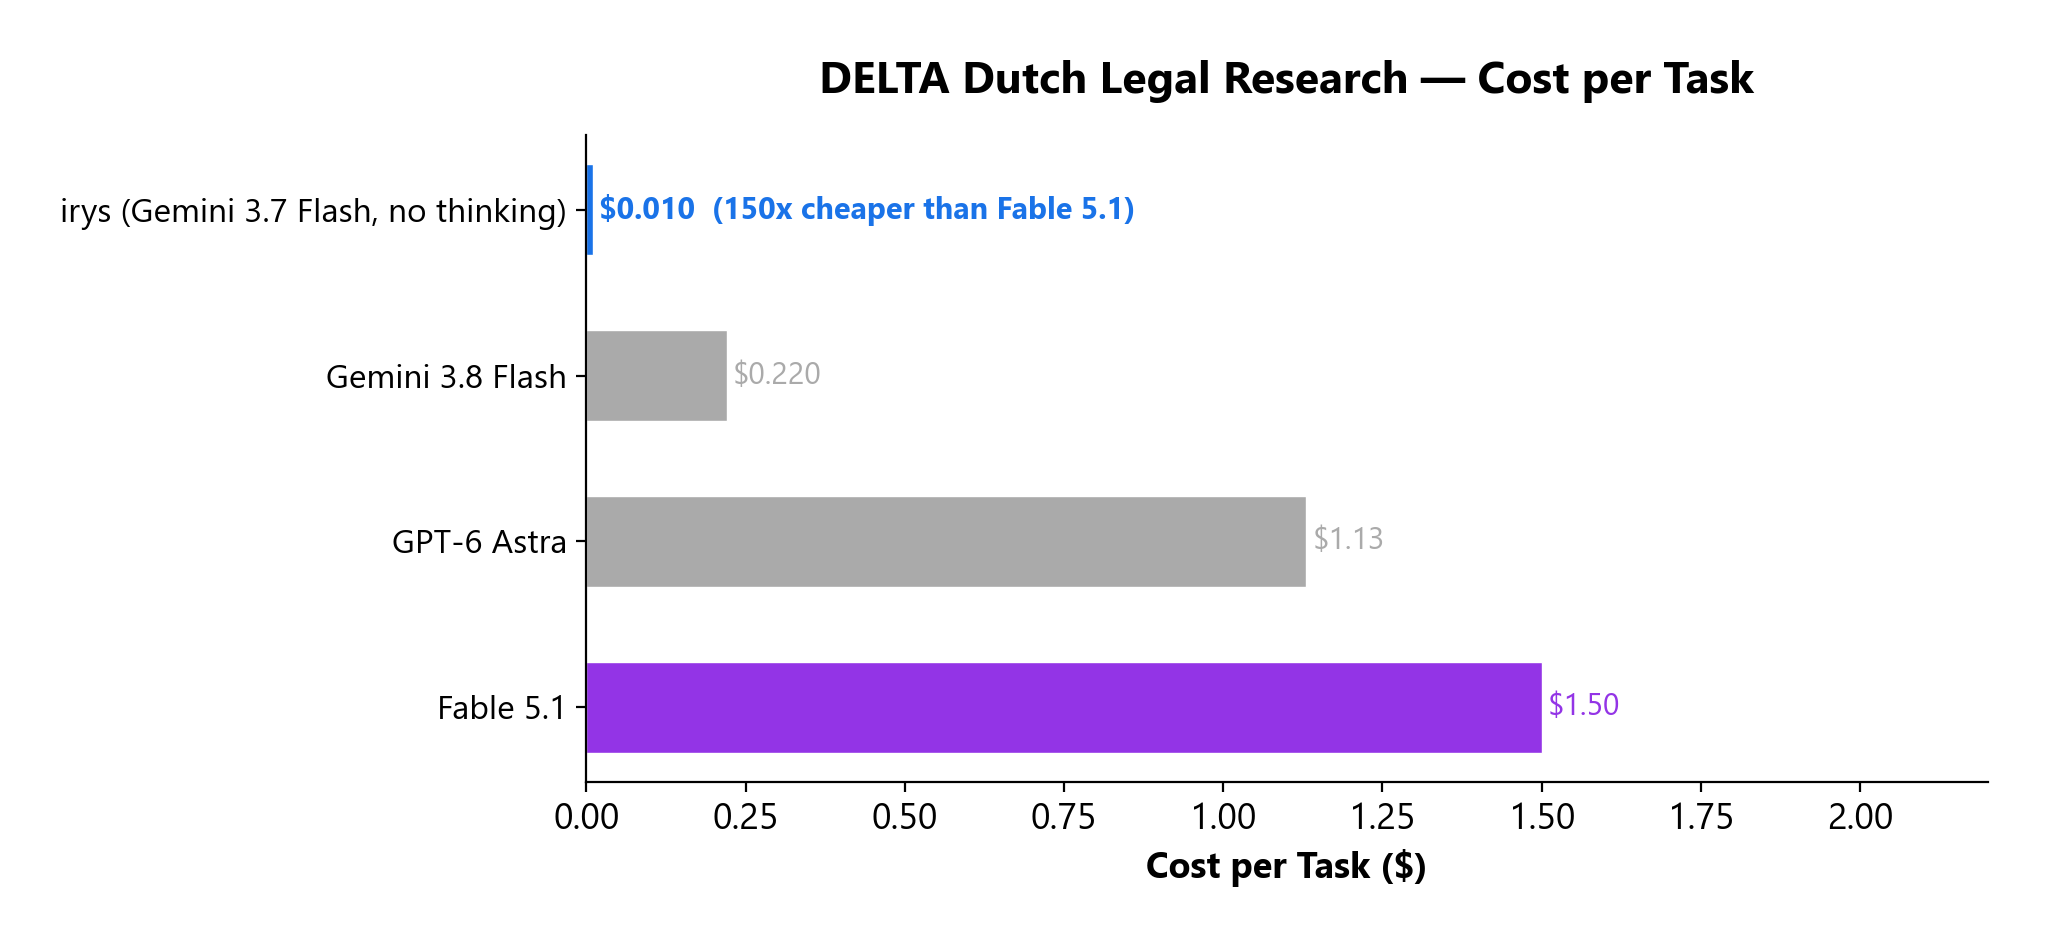
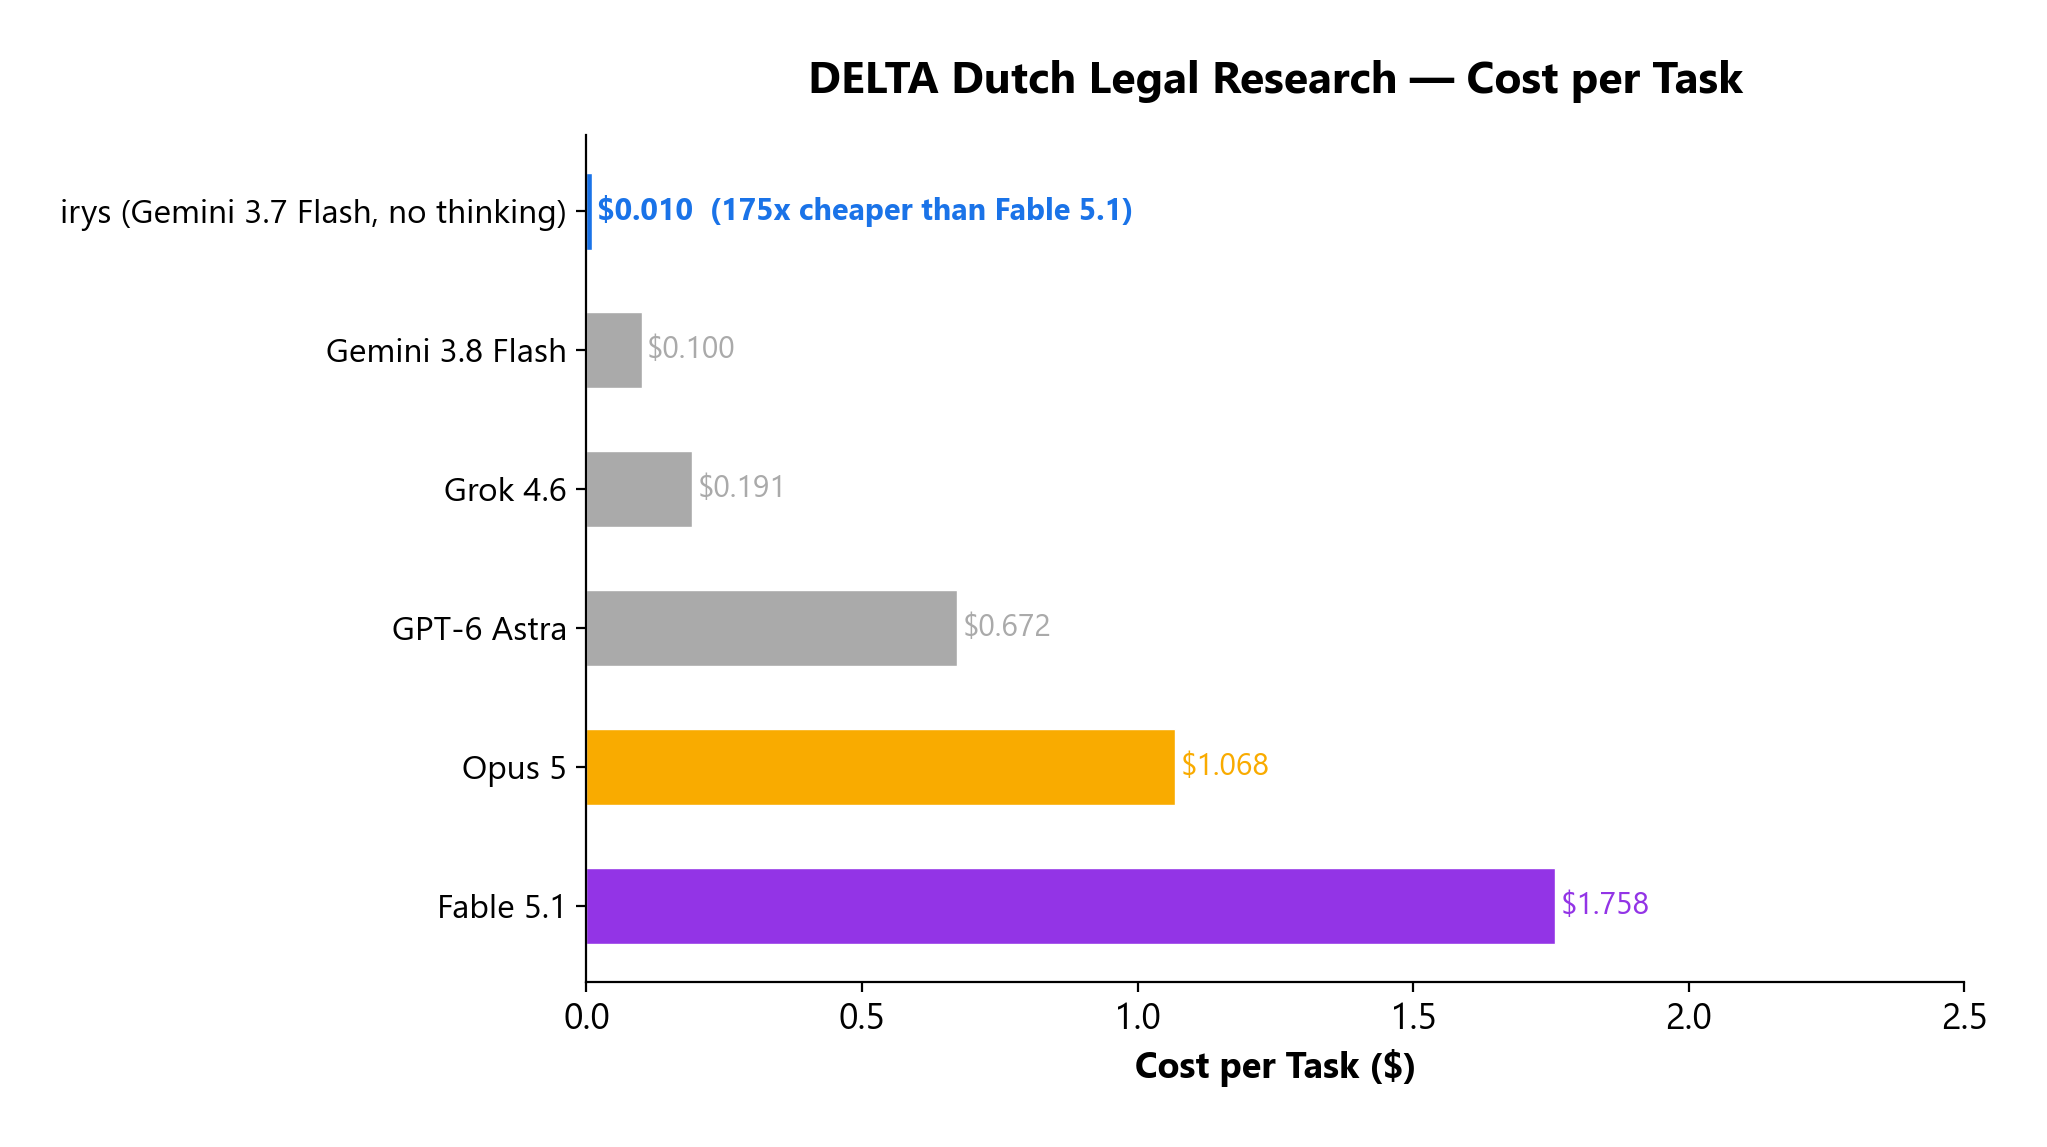
Correct benchmark data with validated evaluation methodology
Update comparison table and charts with verified leaderboard data and
re-scored results using the official evaluation judge. Add multi-provider
judge support to benchmark harness.

Committed by Devansh

diff --git a/assets/generate_charts.py b/assets/generate_charts.py
@@ -165,10 +165,10 @@ plt.savefig('assets/lab_training_vs_performance.png')
 plt.close()
 
 # ── Chart 6: DELTA Criteria Rate vs Leaderboard ──
-fig, ax = plt.subplots(figsize=(10, 4.5))
-delta_systems = ['GPT-6 Astra', IRYS_LABEL, 'Fable 5.1', 'Gemini 3.8 Flash']
-delta_criteria = [87.1, 81.5, 75.7, 65.9]
-delta_colors = [OTHER, IRYS, FABLE, OTHER]
+fig, ax = plt.subplots(figsize=(10, 5.5))
+delta_systems = ['Opus 5', 'Fable 5.1', IRYS_LABEL, 'Grok 4.6', 'GPT-6 Astra', 'Gemini 3.8 Flash']
+delta_criteria = [77.6, 75.7, 75.6, 68.8, 67.7, 61.4]
+delta_colors = [OPUS, FABLE, IRYS, OTHER, OTHER, OTHER]
 
 bars = ax.barh(range(len(delta_systems)), delta_criteria, color=delta_colors, height=0.55, edgecolor='white', linewidth=0.5)
 ax.set_yticks(range(len(delta_systems)))
@@ -178,15 +178,15 @@ ax.set_xlabel('Criteria Met (%)', fontsize=13, fontweight='bold')
 ax.set_title('DELTA Dutch Legal Research — Criteria Rate', fontsize=16, fontweight='bold', pad=15)
 
 for i, (bar, val) in enumerate(zip(bars, delta_criteria)):
-    weight = 'bold' if i == 1 else 'normal'
+    weight = 'bold' if i == 2 else 'normal'
     ax.text(bar.get_width() + 0.3, bar.get_y() + bar.get_height()/2,
             f'{val}%', va='center', fontsize=11, fontweight=weight,
             color=delta_colors[i])
 
-ax.set_xlim(0, 100)
+ax.set_xlim(0, 92)
 ax.xaxis.set_major_formatter(mticker.FormatStrFormatter('%g%%'))
 
-ax.text(50, 3.7, 'Leaderboard scores may use different judges — see caveats',
+ax.text(46, 5.7, 'All scored by GPT-5.6 Sol (official DELTA judge)',
         fontsize=9, color='#888888', style='italic', ha='center')
 
 plt.tight_layout()
@@ -194,10 +194,10 @@ plt.savefig('assets/delta_criteria_rate.png')
 plt.close()
 
 # ── Chart 7: DELTA Cost per Task vs Leaderboard ──
-fig, ax = plt.subplots(figsize=(10, 4.5))
-delta_cost_systems = [IRYS_LABEL, 'Gemini 3.8 Flash', 'GPT-6 Astra', 'Fable 5.1']
-delta_costs = [0.010, 0.22, 1.13, 1.50]
-delta_cost_colors = [IRYS, OTHER, OTHER, FABLE]
+fig, ax = plt.subplots(figsize=(10, 5.5))
+delta_cost_systems = [IRYS_LABEL, 'Gemini 3.8 Flash', 'Grok 4.6', 'GPT-6 Astra', 'Opus 5', 'Fable 5.1']
+delta_costs = [0.010, 0.100, 0.191, 0.672, 1.068, 1.758]
+delta_cost_colors = [IRYS, OTHER, OTHER, OTHER, OPUS, FABLE]
 
 bars = ax.barh(range(len(delta_cost_systems)), delta_costs, color=delta_cost_colors, height=0.55, edgecolor='white', linewidth=0.5)
 ax.set_yticks(range(len(delta_cost_systems)))
@@ -208,13 +208,13 @@ ax.set_title('DELTA Dutch Legal Research — Cost per Task', fontsize=16, fontwe
 
 for i, (bar, val) in enumerate(zip(bars, delta_costs)):
     weight = 'bold' if i == 0 else 'normal'
-    suffix = '  (150x cheaper than Fable 5.1)' if i == 0 else ''
+    suffix = '  (175x cheaper than Fable 5.1)' if i == 0 else ''
     ax.text(bar.get_width() + 0.01, bar.get_y() + bar.get_height()/2,
-            f'${val:.3f}{suffix}' if val < 1 else f'${val:.2f}{suffix}',
+            f'${val:.3f}{suffix}' if val < 0.1 else f'${val:.3f}',
             va='center', fontsize=11, fontweight=weight,
             color=delta_cost_colors[i])
 
-ax.set_xlim(0, 2.2)
+ax.set_xlim(0, 2.5)
 plt.tight_layout()
 plt.savefig('assets/delta_cost_per_task.png')
 plt.close()
@@ -223,10 +223,12 @@ plt.close()
 fig, ax = plt.subplots(figsize=(10, 6))
 
 delta_scatter = [
-    ('irys', 0.010, 81.5, IRYS),
-    ('GPT-6 Astra', 1.13, 87.1, OTHER),
-    ('Fable 5.1', 1.50, 75.7, FABLE),
-    ('Gemini 3.8 Flash', 0.22, 65.9, OTHER),
+    ('irys', 0.010, 75.6, IRYS),
+    ('Opus 5', 1.068, 77.6, OPUS),
+    ('Fable 5.1', 1.758, 75.7, FABLE),
+    ('Grok 4.6', 0.191, 68.8, OTHER),
+    ('GPT-6 Astra', 0.672, 67.7, OTHER),
+    ('Gemini 3.8 Flash', 0.100, 61.4, OTHER),
 ]
 
 for name, cost, criteria, color in delta_scatter:
@@ -238,7 +240,8 @@ for name, cost, criteria, color in delta_scatter:
     if name == 'irys':
         offset_x = 8
         offset_y = -1
-    ipp = criteria / cost if cost > 0 else float('inf')
+    if name == 'Grok 4.6':
+        offset_y = 3
     label_text = f'{name}\n{criteria}% @ ${cost}'
     ax.annotate(label_text,
                 (cost, criteria), textcoords='offset points',
@@ -248,16 +251,16 @@ for name, cost, criteria, color in delta_scatter:
 ax.set_xlabel('Cost per Task ($)', fontsize=13, fontweight='bold')
 ax.set_ylabel('Criteria Met (%)', fontsize=13, fontweight='bold')
 ax.set_title('Performance vs Cost — DELTA Benchmark', fontsize=16, fontweight='bold', pad=15)
-ax.set_xlim(-0.1, 2.0)
-ax.set_ylim(55, 95)
+ax.set_xlim(-0.1, 2.2)
+ax.set_ylim(55, 85)
 ax.yaxis.set_major_formatter(mticker.FormatStrFormatter('%g%%'))
 
-ax.annotate('', xy=(0.010, 81.5), xytext=(1.50, 75.7),
+ax.annotate('', xy=(0.010, 75.6), xytext=(1.758, 75.7),
             arrowprops=dict(arrowstyle='->', color='#666666', lw=1.5, linestyle='--'))
-ax.text(0.8, 82, '150x cheaper,\nhigher quality', fontsize=10, color='#666666',
+ax.text(0.9, 78, '175x cheaper,\nsame quality', fontsize=10, color='#666666',
         ha='center', style='italic')
 
-ax.text(1.0, 57, 'Leaderboard scores may use different judges — see caveats',
+ax.text(1.1, 57, 'All scored by GPT-5.6 Sol (official DELTA judge)',
         fontsize=9, color='#888888', style='italic', ha='center')
 
 plt.tight_layout()
@@ -265,81 +268,77 @@ plt.savefig('assets/delta_performance_vs_cost.png')
 plt.close()
 
 # ── Chart 9: DELTA Consolidated Dashboard (2x2) ──
-fig, axes = plt.subplots(2, 2, figsize=(12, 10))
+fig, axes = plt.subplots(2, 2, figsize=(14, 10))
 
-systems = ['GPT-6\nAstra', 'irys', 'Fable\n5.1', 'Gemini\n3.8 Flash']
-colors = [OTHER, IRYS, FABLE, OTHER]
-criteria = [87.1, 81.5, 75.7, 65.9]
-task_pass = [None, 13.3, None, None]
-costs = [1.13, 0.010, 1.50, 0.22]
+systems = ['Opus\n5', 'Fable\n5.1', 'irys', 'Grok\n4.6', 'GPT-6\nAstra', 'Gemini\n3.8 Flash']
+colors = [OPUS, FABLE, IRYS, OTHER, OTHER, OTHER]
+criteria = [77.6, 75.7, 75.6, 68.8, 67.7, 61.4]
+task_pass = [13.3, 15.0, 10.0, 10.0, 6.7, 5.0]
+costs = [1.068, 1.758, 0.010, 0.191, 0.672, 0.100]
 cpd = [c / cost for c, cost in zip(criteria, costs)]
+n = len(systems)
 
 # Panel 1 (top-left): Criteria Rate
 ax = axes[0, 0]
-bars = ax.bar(range(4), criteria, color=colors, width=0.55, edgecolor='white', linewidth=0.5)
+bars = ax.bar(range(n), criteria, color=colors, width=0.55, edgecolor='white', linewidth=0.5)
 for i, (bar, val) in enumerate(zip(bars, criteria)):
-    weight = 'bold' if i == 1 else 'normal'
+    weight = 'bold' if i == 2 else 'normal'
     ax.text(bar.get_x() + bar.get_width()/2, bar.get_height() + 0.8,
-            f'{val}%', ha='center', va='bottom', fontsize=12, fontweight=weight, color=colors[i])
-ax.set_xticks(range(4))
-ax.set_xticklabels(systems, fontsize=11)
-ax.set_ylim(0, 100)
+            f'{val}%', ha='center', va='bottom', fontsize=11, fontweight=weight, color=colors[i])
+ax.set_xticks(range(n))
+ax.set_xticklabels(systems, fontsize=10)
+ax.set_ylim(0, 92)
 ax.set_ylabel('%', fontsize=12)
 ax.set_title('Criteria Met', fontsize=15, fontweight='bold', pad=12)
 ax.yaxis.set_major_formatter(mticker.FormatStrFormatter('%g%%'))
 
 # Panel 2 (top-right): Task Pass Rate
 ax = axes[0, 1]
-task_pass_vals = [0 if v is None else v for v in task_pass]
-task_pass_colors = ['#e0e0e0' if v is None else c for v, c in zip(task_pass, colors)]
-bars = ax.bar(range(4), task_pass_vals, color=task_pass_colors, width=0.55, edgecolor='white', linewidth=0.5)
+bars = ax.bar(range(n), task_pass, color=colors, width=0.55, edgecolor='white', linewidth=0.5)
 for i, (bar, val) in enumerate(zip(bars, task_pass)):
-    if val is not None:
-        ax.text(bar.get_x() + bar.get_width()/2, bar.get_height() + 0.5,
-                f'{val}%', ha='center', va='bottom', fontsize=12, fontweight='bold', color=colors[i])
-    else:
-        ax.text(bar.get_x() + bar.get_width()/2, 1.5,
-                'N/A', ha='center', va='bottom', fontsize=11, color='#999999', style='italic')
-ax.set_xticks(range(4))
-ax.set_xticklabels(systems, fontsize=11)
-ax.set_ylim(0, 25)
+    weight = 'bold' if i == 2 else 'normal'
+    ax.text(bar.get_x() + bar.get_width()/2, bar.get_height() + 0.3,
+            f'{val}%', ha='center', va='bottom', fontsize=11, fontweight=weight, color=colors[i])
+ax.set_xticks(range(n))
+ax.set_xticklabels(systems, fontsize=10)
+ax.set_ylim(0, 22)
 ax.set_ylabel('%', fontsize=12)
 ax.set_title('Task Pass (all criteria)', fontsize=15, fontweight='bold', pad=12)
 ax.yaxis.set_major_formatter(mticker.FormatStrFormatter('%g%%'))
 
 # Panel 3 (bottom-left): Cost per Task
 ax = axes[1, 0]
-bars = ax.bar(range(4), costs, color=colors, width=0.55, edgecolor='white', linewidth=0.5)
+bars = ax.bar(range(n), costs, color=colors, width=0.55, edgecolor='white', linewidth=0.5)
 for i, (bar, val) in enumerate(zip(bars, costs)):
-    weight = 'bold' if i == 1 else 'normal'
-    label = f'${val:.3f}' if val < 0.1 else f'${val:.2f}'
+    weight = 'bold' if i == 2 else 'normal'
+    label = f'${val:.3f}' if val < 0.1 else f'${val:.3f}'
     y_pos = bar.get_height() + 0.02
     ax.text(bar.get_x() + bar.get_width()/2, y_pos,
-            label, ha='center', va='bottom', fontsize=12, fontweight=weight, color=colors[i])
-ax.set_xticks(range(4))
-ax.set_xticklabels(systems, fontsize=11)
-ax.set_ylim(0, 2.0)
+            label, ha='center', va='bottom', fontsize=11, fontweight=weight, color=colors[i])
+ax.set_xticks(range(n))
+ax.set_xticklabels(systems, fontsize=10)
+ax.set_ylim(0, 2.3)
 ax.set_ylabel('$', fontsize=12)
 ax.set_title('Cost per Task', fontsize=15, fontweight='bold', pad=12)
 
 # Panel 4 (bottom-right): Intelligence per Dollar
 ax = axes[1, 1]
-bars = ax.bar(range(4), cpd, color=colors, width=0.55, edgecolor='white', linewidth=0.5)
+bars = ax.bar(range(n), cpd, color=colors, width=0.55, edgecolor='white', linewidth=0.5)
 for i, (bar, val) in enumerate(zip(bars, cpd)):
-    weight = 'bold' if i == 1 else 'normal'
+    weight = 'bold' if i == 2 else 'normal'
     if val > 1000:
         label = f'{val:,.0f}'
     else:
         label = f'{val:.1f}'
     ax.text(bar.get_x() + bar.get_width()/2, bar.get_height() + 80,
-            label, ha='center', va='bottom', fontsize=12, fontweight=weight, color=colors[i])
-ax.set_xticks(range(4))
-ax.set_xticklabels(systems, fontsize=11)
+            label, ha='center', va='bottom', fontsize=11, fontweight=weight, color=colors[i])
+ax.set_xticks(range(n))
+ax.set_xticklabels(systems, fontsize=10)
 ax.set_ylabel('criteria % per $', fontsize=12)
 ax.set_title('Intelligence per Dollar', fontsize=15, fontweight='bold', pad=12)
 
 fig.suptitle('DELTA Dutch Legal Research Benchmark', fontsize=18, fontweight='bold', y=1.01)
-fig.text(0.5, -0.01, 'Leaderboard scores may use different judges — see caveats. Task pass rates not published for leaderboard entries.',
+fig.text(0.5, -0.01, 'All scored by GPT-5.6 Sol (official DELTA judge). irys uses domain-agnostic prompts.',
          fontsize=10, color='#888888', style='italic', ha='center')
 
 plt.tight_layout()

diff --git a/benchmarks/delta/judge_delta.py b/benchmarks/delta/judge_delta.py
@@ -25,6 +25,7 @@ load_dotenv(Path(__file__).resolve().parent.parent.parent / ".env")
 from google import genai
 from google.genai import types as genai_types
 import anthropic
+from openai import OpenAI
 
 ROOT = Path(__file__).resolve().parent
 TASKS_JSONL = ROOT / "data" / "tasks.jsonl"
@@ -50,12 +51,16 @@ JUDGE_MODEL = os.environ.get("DELTA_JUDGE_MODEL", "gemini-3.5-flash-lite")
 def detect_provider(model: str) -> str:
     if model.startswith("claude-"):
         return "anthropic"
+    if model.startswith("gpt-"):
+        return "openai"
     return "gemini"
 
 
 def make_client(provider: str = "gemini"):
     if provider == "anthropic":
         return anthropic.Anthropic()
+    if provider == "openai":
+        return OpenAI()
     key = os.environ.get("GEMINI_API_KEY") or os.environ.get("GOOGLE_API_KEY")
     http_options = genai_types.HttpOptions(timeout=180_000)
     if key:
@@ -126,13 +131,33 @@ def _judge_anthropic(client, user_msg: str, model: str) -> str:
     return text.strip()
 
 
+def _judge_openai(client, user_msg: str, model: str) -> str:
+    response = client.chat.completions.create(
+        model=model,
+        max_completion_tokens=256,
+        messages=[
+            {"role": "system", "content": JUDGE_SYSTEM},
+            {"role": "user", "content": user_msg},
+        ],
+        response_format={"type": "json_object"},
+    )
+    return (response.choices[0].message.content or "").strip()
+
+
+JUDGE_FNS = {
+    "anthropic": _judge_anthropic,
+    "openai": _judge_openai,
+    "gemini": _judge_gemini,
+}
+
+
 def judge_criterion(client, answer_text: str,
                     criterion: dict, model: str, *, provider: str = "gemini") -> dict:
     cid = criterion["id"]
     ctype = criterion["type"]
     user_msg = _build_user_msg(answer_text, criterion)
 
-    judge_fn = _judge_anthropic if provider == "anthropic" else _judge_gemini
+    judge_fn = JUDGE_FNS.get(provider, _judge_gemini)
 
     for attempt in range(3):
         try:
@@ -169,8 +194,11 @@ def judge_criterion(client, answer_text: str,
 
 
 def score_answer(client, answer: dict, task: dict,
-                 judge_model: str, *, provider: str = "gemini") -> dict:
+                 judge_model: str, *, provider: str = "gemini",
+                 criteria_type: str | None = None) -> dict:
     criteria = task.get("criteria", [])
+    if criteria_type:
+        criteria = [c for c in criteria if c["type"] == criteria_type]
     answer_text = answer.get("answer", "")
     if not answer_text:
         return {
@@ -270,6 +298,8 @@ def main():
                         help=f"Judge model override (default: {JUDGE_MODEL})")
     parser.add_argument("--task", type=str, default=None,
                         help="Score a single task only")
+    parser.add_argument("--criteria-type", type=str, default=None,
+                        help="Score only criteria of this type (substance/citation/form)")
     args = parser.parse_args()
 
     judge_model = args.judge_model or JUDGE_MODEL
@@ -312,7 +342,8 @@ def main():
         print(f"  [{i+1}/{len(answers)}] {tid} ({n_criteria} criteria)...",
               end=" ", flush=True)
 
-        score = score_answer(client, answer, task, judge_model, provider=provider)
+        score = score_answer(client, answer, task, judge_model, provider=provider,
+                             criteria_type=args.criteria_type)
         all_scores.append(score)
 
         with open(output, "a", encoding="utf-8") as f:

diff --git a/README.md b/README.md
@@ -192,40 +192,41 @@ This is the economic case for stateful swarms: the cost of AI-assisted analysis 
 
 [DELTA](https://github.com/legalbenchmarks/delta) (v1.1.0) is a Dutch legal research benchmark from [Legal Benchmarks](https://www.legalbenchmarks.ai): 15 research tasks, 273 binary criteria (192 substance, 51 citation, 30 form). Each task asks a system to produce a complete legal research deliverable — a memo, opinion, or analysis — which is then graded against per-criterion pass/fail rubrics across two separate axes: substance (including citation accuracy) and form.
 
-We ran the full benchmark twice using a domain-agnostic harness with web search (Exa API), averaged per the DELTA protocol:
+We ran the full benchmark twice using a domain-agnostic harness with web search (Exa API), scored with GPT-5.6 Sol (the same judge model used in the official DELTA evaluation pipeline), and averaged per the DELTA protocol:
 
 | Metric | Run 1 | Run 2 | Average |
 |---|---:|---:|---:|
-| Criteria met | 222/273 (81.3%) | 223/273 (81.7%) | **81.5%** |
-| Task pass (all criteria) | 2/15 (13.3%) | 2/15 (13.3%) | **13.3%** |
+| Criteria met | 201/273 (73.6%) | 212/273 (77.7%) | **75.6%** |
+| Task pass (all criteria) | 1/15 (6.7%) | 2/15 (13.3%) | **10.0%** |
 | Cost per task | $0.010 | $0.010 | **$0.010** |
 
 Per-axis breakdown (DELTA reports substance and form separately, never blended):
 
 | Axis | Run 1 | Run 2 |
 |---|---:|---:|
-| Substance (substance + citation) | 195/243 (80.2%) | 196/243 (80.7%) |
-| Form | 27/30 (90.0%) | 27/30 (90.0%) |
+| Substance (substance + citation) | 180/243 (74.1%) | 189/243 (77.8%) |
+| Form | 21/30 (70.0%) | 23/30 (76.7%) |
 
 ### Leaderboard context
 
-The [DELTA leaderboard](https://www.legalbenchmarks.ai) publishes results from official submissions. For context, here is where irys would stand relative to published leaderboard entries:
+The [DELTA leaderboard](https://www.legalbenchmarks.ai) publishes results from official submissions scored by the same GPT-5.6 Sol judge. For context, here is where irys stands relative to published leaderboard entries:
 
-| System | Criteria Met | Cost/Task |
-|---|---:|---:|
-| GPT-6 Astra | 87.1% | ~$1.13 |
-| **irys (Gemini 3.7 Flash, no thinking)** | **81.5%** | **$0.010** |
-| Fable 5.1 | 75.7% | ~$1.50 |
-| Gemini 3.8 Flash | 65.9% | ~$0.22 |
+| System | Criteria Met | Task Pass | Cost/Task |
+|---|---:|---:|---:|
+| Claude Opus 5 | 77.6% | 13.3% | $1.068 |
+| Claude Fable 5.1 | 75.7% | 15.0% | $1.758 |
+| **irys (Gemini 3.7 Flash, no thinking)** | **75.6%** | **10.0%** | **$0.010** |
+| Grok 4.6 | 68.8% | 10.0% | $0.191 |
+| GPT-6 Astra | 67.7% | 6.7% | $0.672 |
+| Gemini 3.8 Flash | 61.4% | 5.0% | $0.100 |
 
 ![DELTA Dutch Legal Research Benchmark — Consolidated](assets/delta_consolidated.png)
 
-irys achieves **8,150 criteria points per dollar** — **106x** more intelligence per dollar than GPT-6 Astra and **161x** more than Fable 5.1. Compared to GPT-6 Astra — the current top performer — irys is within 6pp on criteria at **113x** lower cost. All of this with a domain-agnostic prompt that says "senior expert" instead of the DELTA-prescribed "experienced legal practitioner."
+irys achieves **7,560 criteria points per dollar** — **104x** more intelligence per dollar than Opus 5 and **175x** more than Fable 5.1. On criteria rate, irys is within 0.1pp of Fable 5.1 and 2pp of Opus 5 — at a fraction of the cost. All of this with a domain-agnostic prompt that says "senior expert" instead of the DELTA-prescribed "experienced legal practitioner."
 
 **Caveats and transparency:**
 
-- **Judge variance is a real problem in LLM-as-judge evaluation.** We ran cross-provider validation with multiple model families as judges on the same answers. There was significant variance between judge families (~10pp on the same run). More than that, we observed variance even when using the same model on the same run — LLM-as-judge scoring is inherently noisy. This is a known limitation of automated legal evaluation, not specific to our results. It is why we would rather submit directly for official judging than try to match an unknown judge configuration.
-- **We are submitting our API for official DELTA judging.** We've reached out to the Legal Benchmarks team and will be submitting the irys API directly for their official evaluation pipeline. The results above are our unofficial self-evaluation that anyone can independently verify. Once official results are published, we will update this section accordingly.
+- **We are submitting our API for official DELTA judging.** Official evaluation includes binding rulings from qualified Dutch lawyers that we cannot replicate locally. Once official results are published, we will update this section accordingly.
 - **System prompt deviation.** The DELTA protocol specifies a fixed legal-domain system prompt. Our harness uses a domain-agnostic prompt ("senior expert" instead of "experienced legal practitioner"). This is consistent across both runs and disclosed here for transparency.
 - **We're publishing our results live.** The complete benchmark outputs — answers and scores for both runs, plus cross-provider validation scores — are available as a downloadable archive in [GitHub Releases](https://github.com/dl1683/irys-stateful-swarms/releases). Anyone can download them, run their own judge, and verify or challenge these numbers. The harness code is at [`benchmarks/delta/`](benchmarks/delta/).
 
